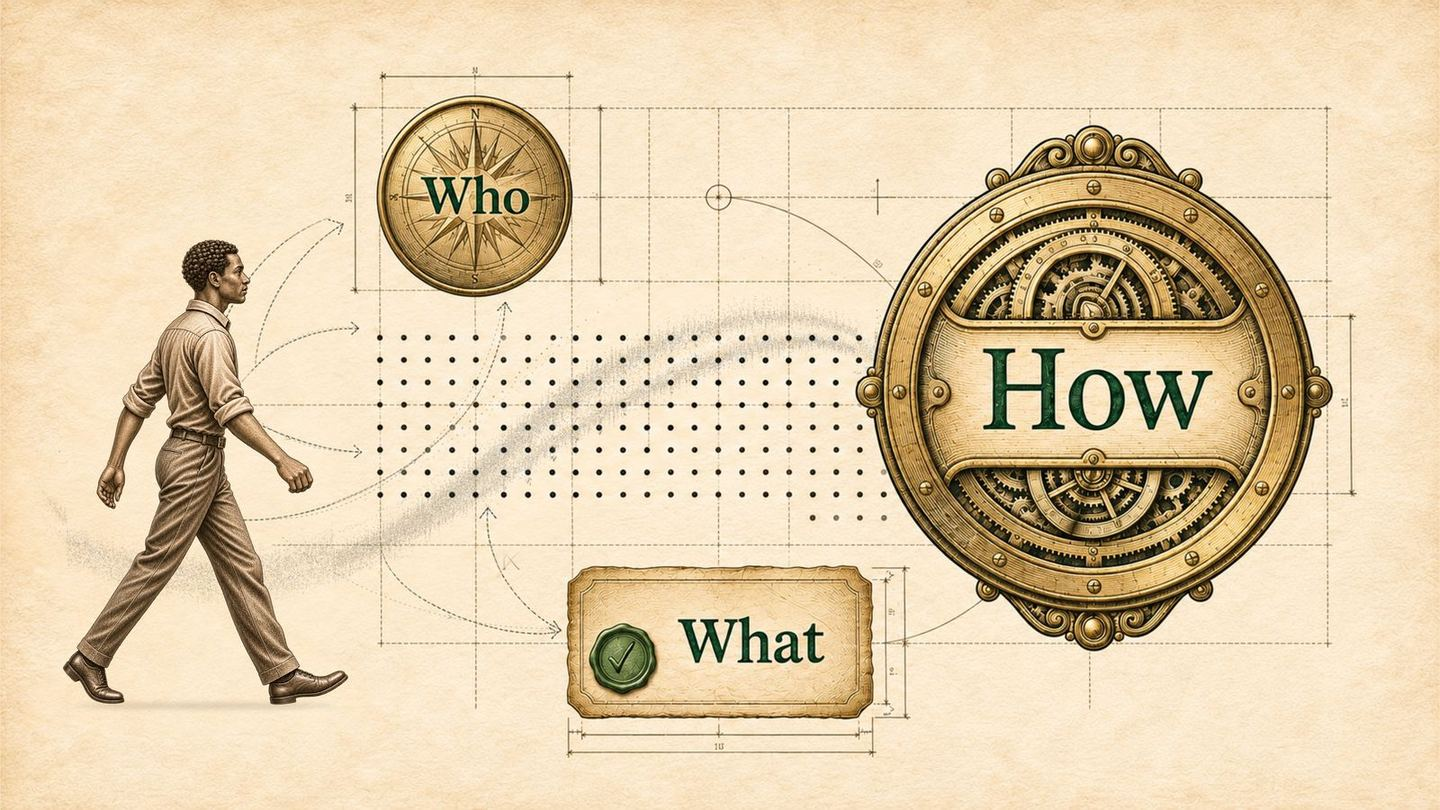
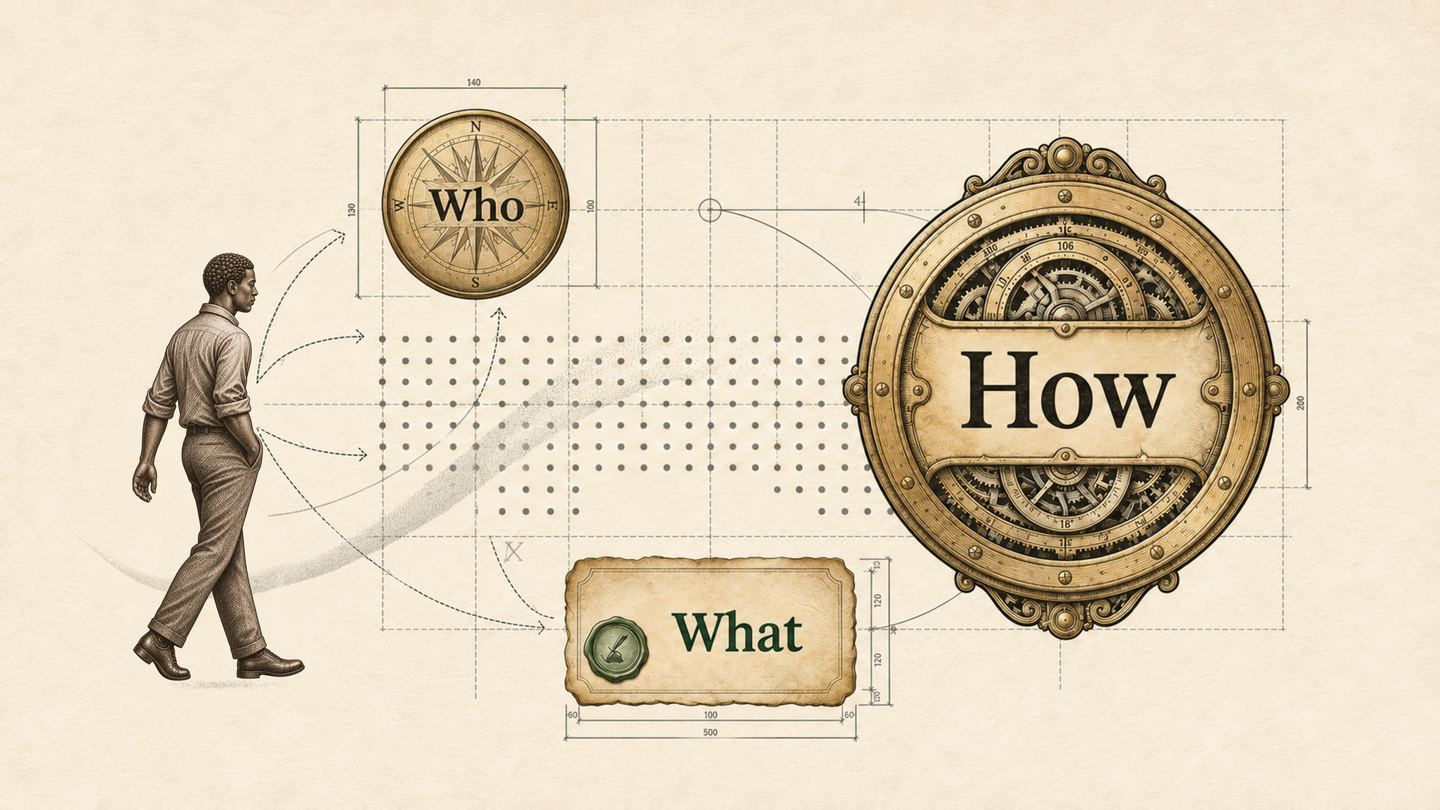
Chapter one: exact-reference 30-frame loop, click areas fitted

diff --git a/index.html b/index.html
@@ -1266,7 +1266,7 @@ function coverHtml() {
   const alt = L('An illustrated man walks past three plaques: Who, What and How', '一幅插画：一个人走过“谁、做什么、怎么做”三块铭牌');
   const hs = (k, label, shape) => `<g class="hs" data-k="${k}" tabindex="0" role="button" aria-label="${label}">${shape}</g>`;
   const art = `<img class="wwh" src="art/wwh.webp" width="1600" height="900" alt="${esc(alt)}" decoding="async"><svg viewBox="0 0 1600 900" focusable="false" aria-hidden="false">
-    ${hs(0, 'Who', '<ellipse cx="527" cy="218" rx="110" ry="110"/>')}${hs(1, 'What', '<rect x="628" y="626" width="346" height="174" rx="14"/>')}${hs(2, 'How', '<ellipse cx="1222" cy="432" rx="256" ry="292"/>')}</svg>`;
+    ${hs(0, 'Who', '<ellipse cx="529" cy="231" rx="106" ry="106"/>')}${hs(1, 'What', '<rect x="626" y="617" width="330" height="170" rx="14"/>')}${hs(2, 'How', '<ellipse cx="1184" cy="431" rx="252" ry="284"/>')}</svg>`;
   const who = ZH ? `<p>我善于解决问题，是一名用户行为架构师，关注人们如何在系统中思考、行动和适应。</p><p>我能发现哪里让人用得不顺，界定真正的问题，并给出实用的解决方案：产品、原型、学习项目，以及一个组织的运作方式。</p><p>我曾从零创建并带领团队，设计 AI 课程并培训教师使用 AI，还为一家公司搭建了组织结构和衡量目标的统一方法。</p><p>我的工作横跨工程、设计与教育，也横跨不同文化，用英语和普通话把复杂的想法变成人们用得上的东西。</p>`
     : `<p>I am a problem solver and user behavior architect focused on how people think, act and adapt within systems.</p><p>I notice what isn't working for people, define the real problem, and build practical solutions: products, prototypes, learning programs and the way an organisation runs.</p><p>I have founded and led a team from scratch, designed AI curricula and trained teachers to use AI, and developed a company's organisational structure and standardised ways of measuring its goals.</p><p>I work across engineering, design and education, and across cultures in English and Mandarin, turning complex ideas into things people can use.</p>`;
   const glance = `<div class="glance">${ZH ? `<div><b>51</b><span>名驾驶员参与我的博士研究</span></div><div><b>${PUBS.length}</b><span>篇带 DOI 的论文</span></div><div><b>2</b><span>名硕士生在我指导下毕业</span></div><div><b>+18%</b><span>我所顾问学院的营收增长</span></div>` : `<div><b>51</b><span>drivers in my doctoral study</span></div><div><b>${PUBS.length}</b><span>papers with DOIs</span></div><div><b>2</b><span>master's students guided to graduation</span></div><div><b>+18%</b><span>revenue at the institute I advise</span></div>`}</div>
